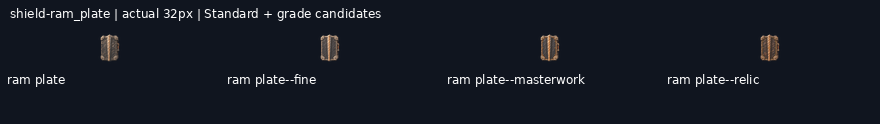
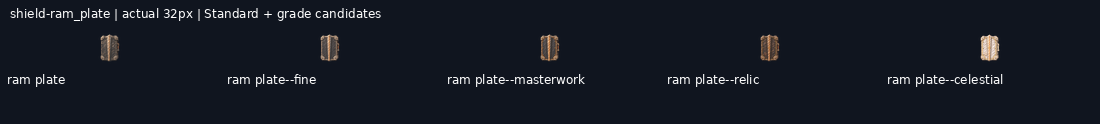
Deliver shield-ram_plate--celestial review candidate

diff --git a/art/_archive/gear/2026-11-20-reset-continuation/HANDOFF.md b/art/_archive/gear/2026-11-20-reset-continuation/HANDOFF.md
@@ -1,13 +1,13 @@
 # Reset continuation progress
 
-Branch: `art/2026-11-20-reset-continuation`. New deliveries: 61/94.
+Branch: `art/2026-11-20-reset-continuation`. New deliveries: 62/94.
 
 Shared coordination: https://github.com/leonpentastorm/Project-Heaven-Cry/issues/3 . Read START-HERE.md before extending this queue.
 
 All new entries remain review-candidate; production_approved:false and implementation_ready:false. Exact-outline review remains pending.
 
-Ready jobs: shield-ram_plate--celestial, shield-deflector--fine, shield-bulwark_screen--fine, shield-barrier_wall--fine.
+Ready jobs: shield-deflector--fine, shield-bulwark_screen--fine, shield-barrier_wall--fine.
 
-Pending jobs: weapon-hellraiser_rotary--celestial, weapon-purifier_flamer--masterwork, weapon-purifier_flamer--relic, weapon-purifier_flamer--celestial, weapon-dock_cutter--masterwork, weapon-dock_cutter--relic, weapon-dock_cutter--celestial, weapon-broadback_sabre--relic, weapon-broadback_sabre--celestial, weapon-short_draw--fine, weapon-short_draw--masterwork, weapon-short_draw--relic, weapon-short_draw--celestial, weapon-long_draw--fine, weapon-long_draw--masterwork, weapon-long_draw--relic, weapon-long_draw--celestial, weapon-kemizuchi_side_sword--masterwork, weapon-kemizuchi_side_sword--relic, weapon-kemizuchi_side_sword--celestial, shield-ram_plate--celestial, shield-deflector--fine, shield-deflector--masterwork, shield-deflector--relic, shield-deflector--celestial, shield-bulwark_screen--fine, shield-bulwark_screen--masterwork, shield-bulwark_screen--relic, shield-bulwark_screen--celestial, shield-barrier_wall--fine, shield-barrier_wall--masterwork, shield-barrier_wall--relic, shield-barrier_wall--celestial.
+Pending jobs: weapon-hellraiser_rotary--celestial, weapon-purifier_flamer--masterwork, weapon-purifier_flamer--relic, weapon-purifier_flamer--celestial, weapon-dock_cutter--masterwork, weapon-dock_cutter--relic, weapon-dock_cutter--celestial, weapon-broadback_sabre--relic, weapon-broadback_sabre--celestial, weapon-short_draw--fine, weapon-short_draw--masterwork, weapon-short_draw--relic, weapon-short_draw--celestial, weapon-long_draw--fine, weapon-long_draw--masterwork, weapon-long_draw--relic, weapon-long_draw--celestial, weapon-kemizuchi_side_sword--masterwork, weapon-kemizuchi_side_sword--relic, weapon-kemizuchi_side_sword--celestial, shield-deflector--fine, shield-deflector--masterwork, shield-deflector--relic, shield-deflector--celestial, shield-bulwark_screen--fine, shield-bulwark_screen--masterwork, shield-bulwark_screen--relic, shield-bulwark_screen--celestial, shield-barrier_wall--fine, shield-barrier_wall--masterwork, shield-barrier_wall--relic, shield-barrier_wall--celestial.
 
 Quota state: null.
